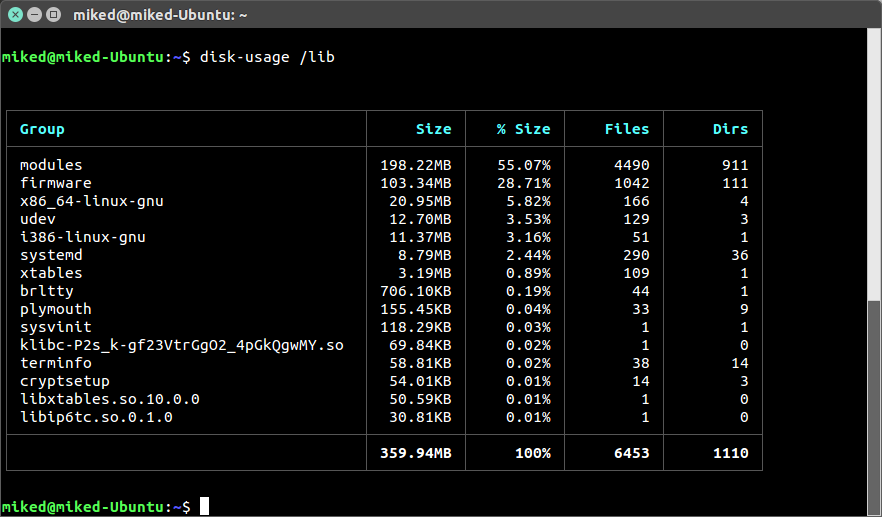
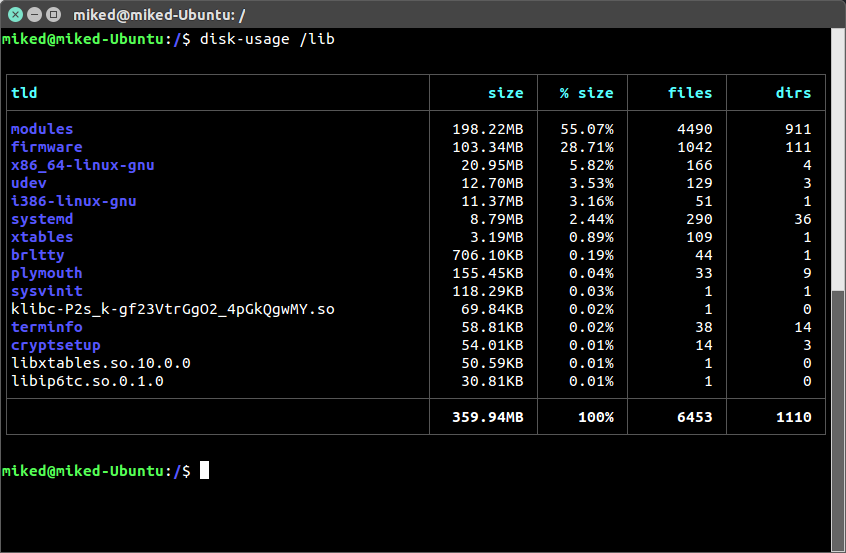
Remove one char from width for Windows

diff --git a/bin/app.js b/bin/app.js
@@ -122,7 +122,7 @@ const printStats = (args, stats) => {
     const colWidths = [11, 9, 10, 10]
     const colLen = (process.stdout.columns -
       R.compose(
-        R.add(2),
+        R.add(3),
         R.add(colWidths.length),
         R.sum
       )(colWidths)
